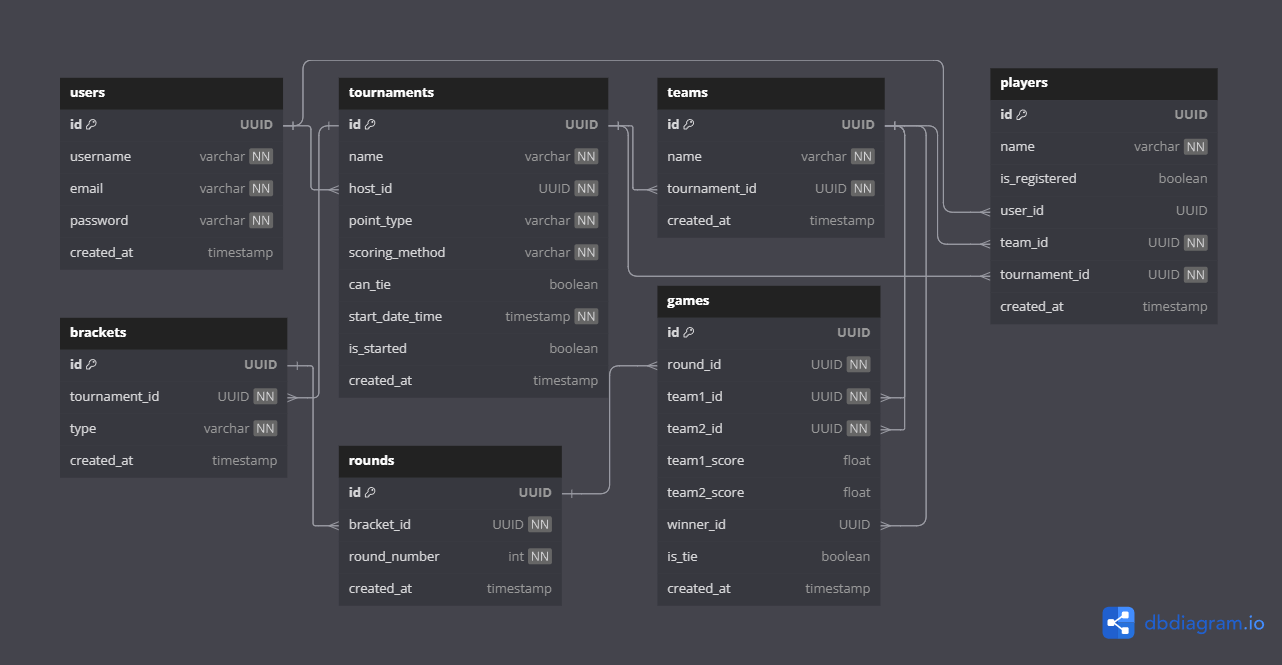
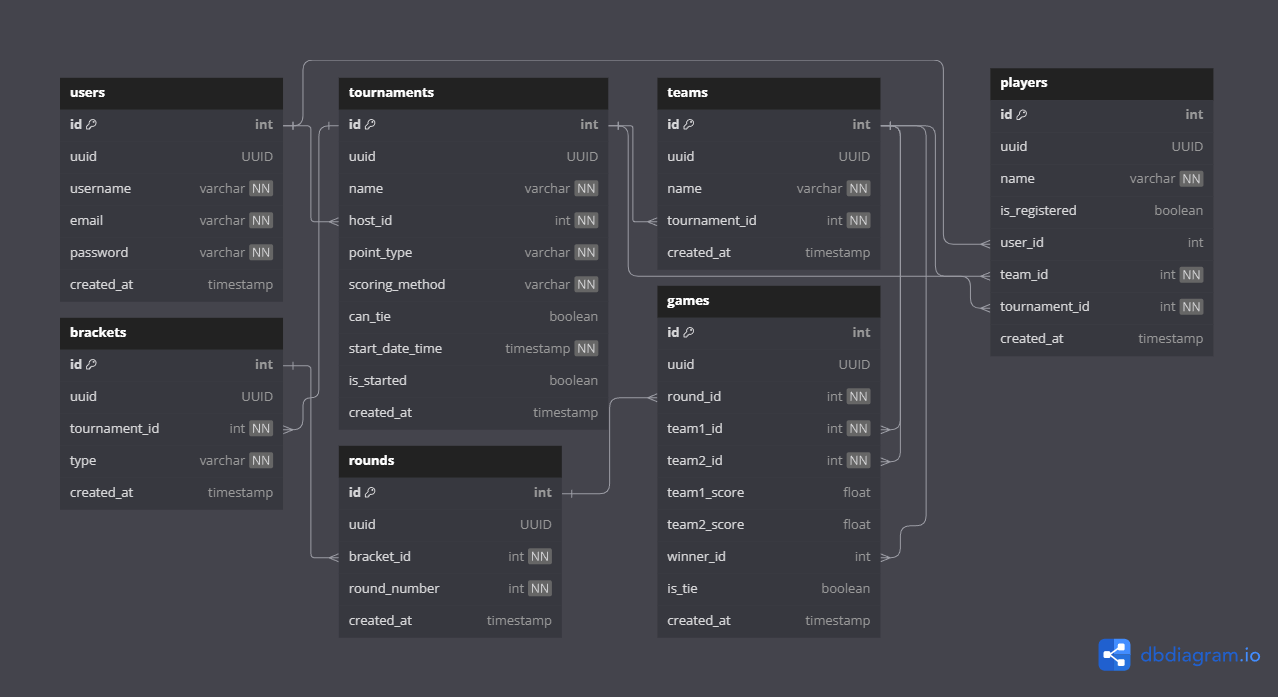
db setup and gin setup need to change the structure of my db requests, because i am using postgres now

diff --git a/modules/user/handler.go b/modules/user/handler.go
@@ -2,23 +2,19 @@ package user
 
 import (
 	"database/sql"
-	"github.com/gorilla/mux"
+	"github.com/gin-gonic/gin"
 	"net/http"
 )
 
-func RegisterUserRoute(router *mux.Router, db *sql.DB) {
+func RegisterUserRoute(router *gin.Engine, db *sql.DB) {
 	registerUserRoutes(router, db)
+	registerAuthRoutes(router, db)
 }
 
-func registerUserRoutes(router *mux.Router, db *sql.DB) {
-	router.HandleFunc("/users", func(w http.ResponseWriter, r *http.Request) {
-		CreateNewUser(w, r, db)
-	}).Methods(http.MethodPost)
-
-	router.HandleFunc("/users/{id}", func(w http.ResponseWriter, r *http.Request) {
-		// GetUserById(w, r, db)
-	}).Methods(http.MethodGet)
-
+func registerUserRoutes(router *gin.Engine, db *sql.DB) {
+	router.GET("/users/:id", func(c *gin.Context) {
+		CreateNewUser()
+	})
 	router.HandleFunc("/users/{id}", func(w http.ResponseWriter, r *http.Request) {
 		// UpdateUser(w, r, db)
 	}).Methods(http.MethodPut)
@@ -29,16 +25,10 @@ func registerUserRoutes(router *mux.Router, db *sql.DB) {
 }
 
 func registerAuthRoutes(router *mux.Router, db *sql.DB) {
-	router.HandleFunc("/users/{id}", func(w http.ResponseWriter, r *http.Request) {
-		// DeleteUser(w, r, db)
-	}).Methods(http.MethodDelete)
-	router.HandleFunc("/users/{id}", func(w http.ResponseWriter, r *http.Request) {
-		DeleteUser(w, r, db)
-	}).Methods(http.MethodDelete)
-}
-
-func handleLogin(w http.ResponseWriter, r *http.Request, db *sql.DB) {
-	if r.Method == http.MethodPost {
+	router.HandleFunc("/auth/signup", func(w http.ResponseWriter, r *http.Request) {
+		CreateNewUser(w, r, db)
+	}).Methods(http.MethodPost)
+	router.HandleFunc("/auth/signin", func(w http.ResponseWriter, r *http.Request) {
 		SignIn(w, r, db)
-	}
+	}).Methods(http.MethodPost)
 }

diff --git a/modules/user/repo.go b/modules/user/repo.go
@@ -39,24 +39,24 @@ func GetUserPasswordHashByName(username string, db *sql.DB) (string, error) {
 	return passwordHash, err
 }
 
-func CreateUserInDB(userData DBNewUser, db *sql.DB) (int, error) {
+func CreateUserInDB(userData DBNewUser, db *sql.DB) (string, error) {
 	sql := "INSERT INTO user (username, email, password_hash) VALUES (?, ?, ?)"
 	stmt, err := db.Prepare(sql)
 
 	if err != nil {
-		return -1, err
+		return "", err
 	}
 	result, err := stmt.Exec(userData.username, userData.email, userData.password_hash)
 	if err != nil {
-		return -1, err
+		return "", err
 	}
 
 	id, err := result.LastInsertId()
 	if err != nil {
-		return -1, err
+		return "", err
 	}
 
-	return int(id), nil
+	return id, nil
 }
 
 func GetUserById(id int, db *sql.DB) (UserFromDB, error) {

diff --git a/main.go b/main.go
@@ -2,10 +2,9 @@ package main
 
 import (
 	"fmt"
-	"github.com/gorilla/mux"
+	"github.com/gin-gonic/gin"
 	"log"
 	"net/http"
-	"wishtournament/modules/dev"
 	"wishtournament/modules/user"
 	"wishtournament/util/auth"
 	"wishtournament/util/db"
@@ -16,10 +15,10 @@ import (
 func main() {
 
 	dbConnection := db.InitDB()
-	router := mux.NewRouter()
+	router := gin.Default()
 
 	user.RegisterUserRoute(router, dbConnection)
-	dev.RegisterTicketRoute(router, dbConnection)
+	// dev.RegisterDevRoute(router, dbConnection)
 
 	handler := corsMiddleware(router)
 

diff --git a/modules/dev/handler.go b/modules/dev/handler.go
@@ -1,14 +1,14 @@
 package dev
 
+/**
 import (
 	"database/sql"
-	"github.com/gorilla/mux"
 	"log"
 	"net/http"
 	"wishtournament/util/hashing"
 )
 
-func RegisterTicketRoute(router *mux.Router, db *sql.DB) {
+func RegisterDevRoute(router *mux.Router, db *sql.DB) {
 	baseRoute := "/dev"
 	router.HandleFunc(baseRoute, func(w http.ResponseWriter, r *http.Request) {
 		handleEncryptPassword(w, r, db)
